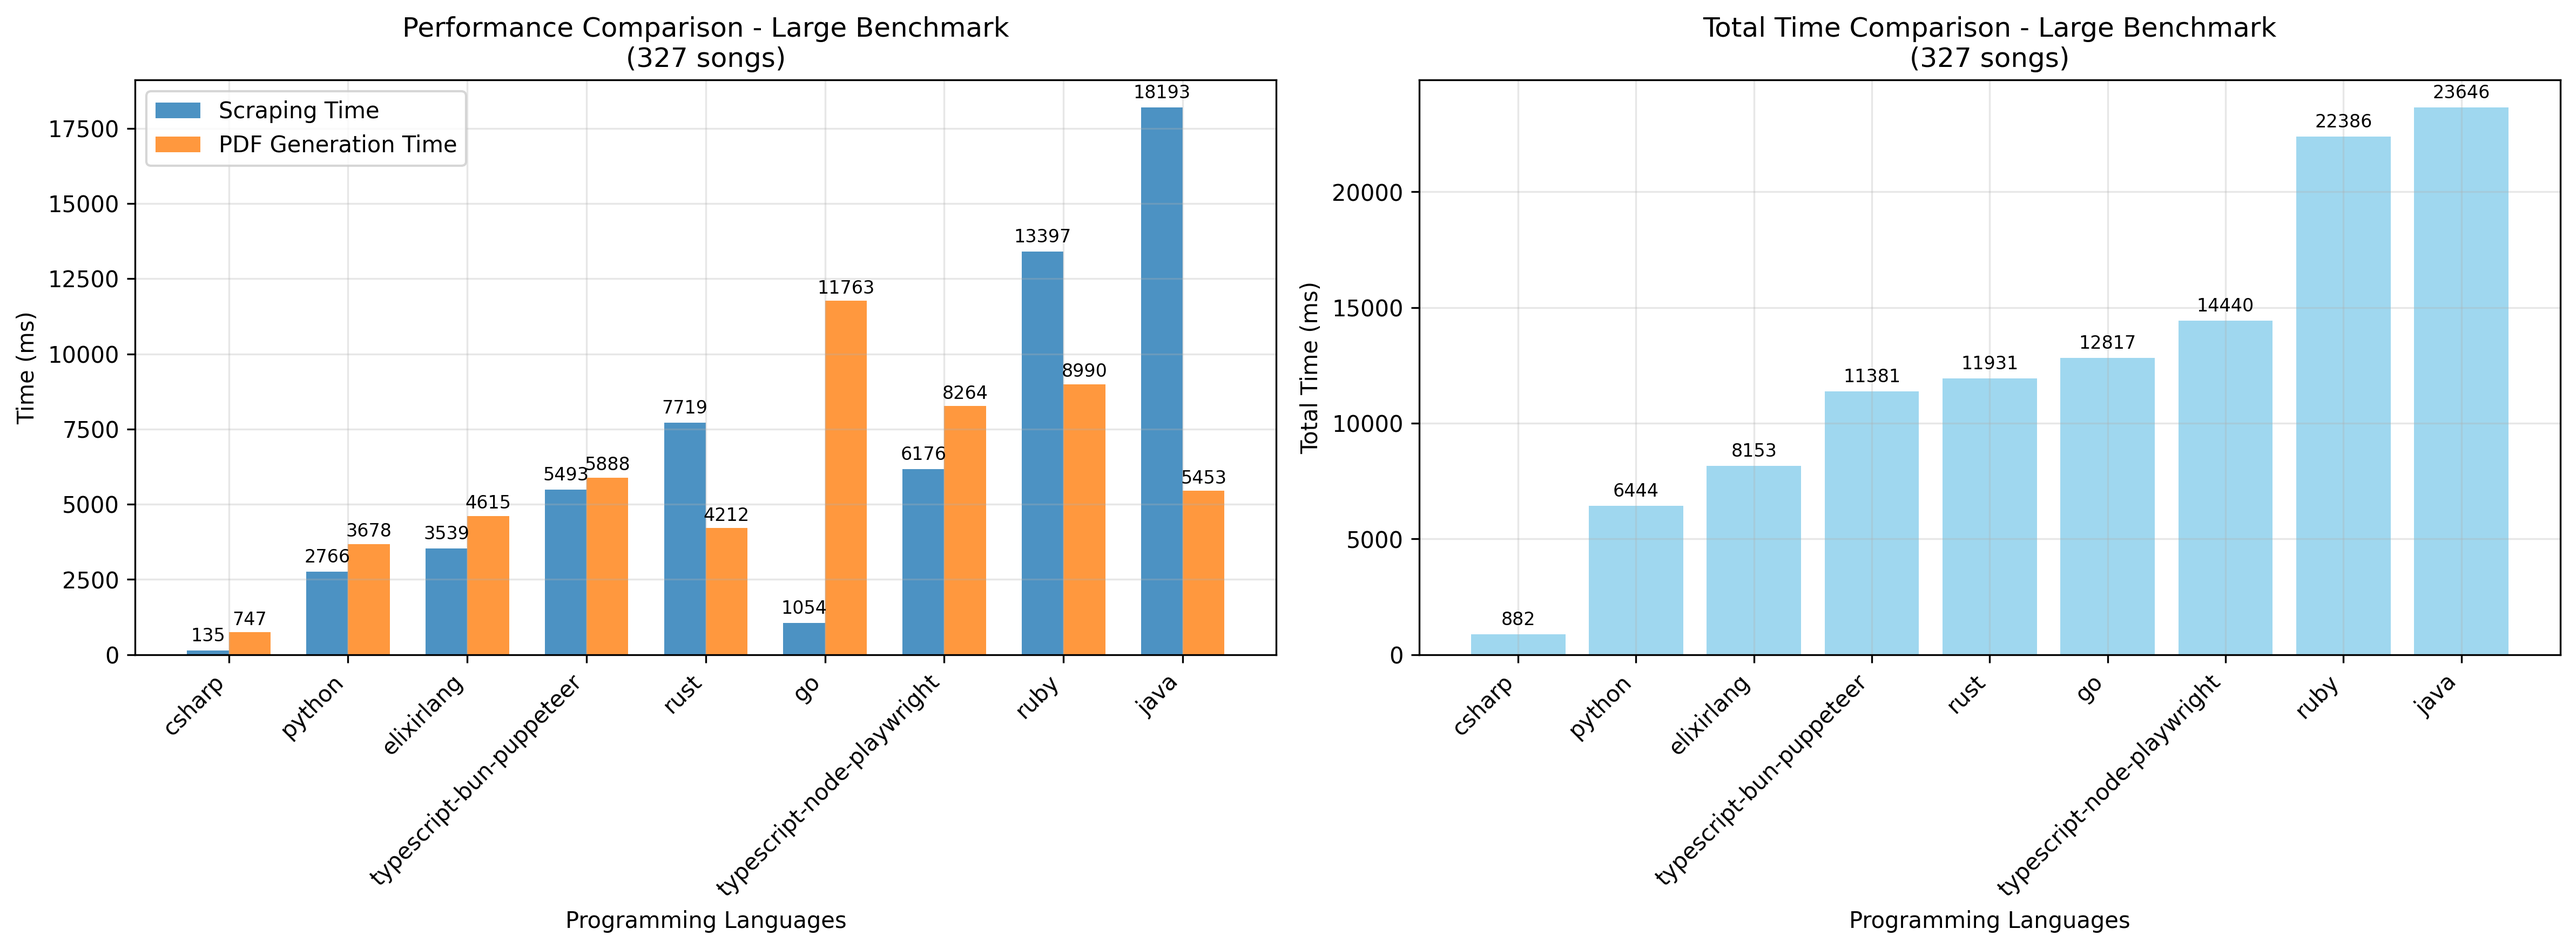
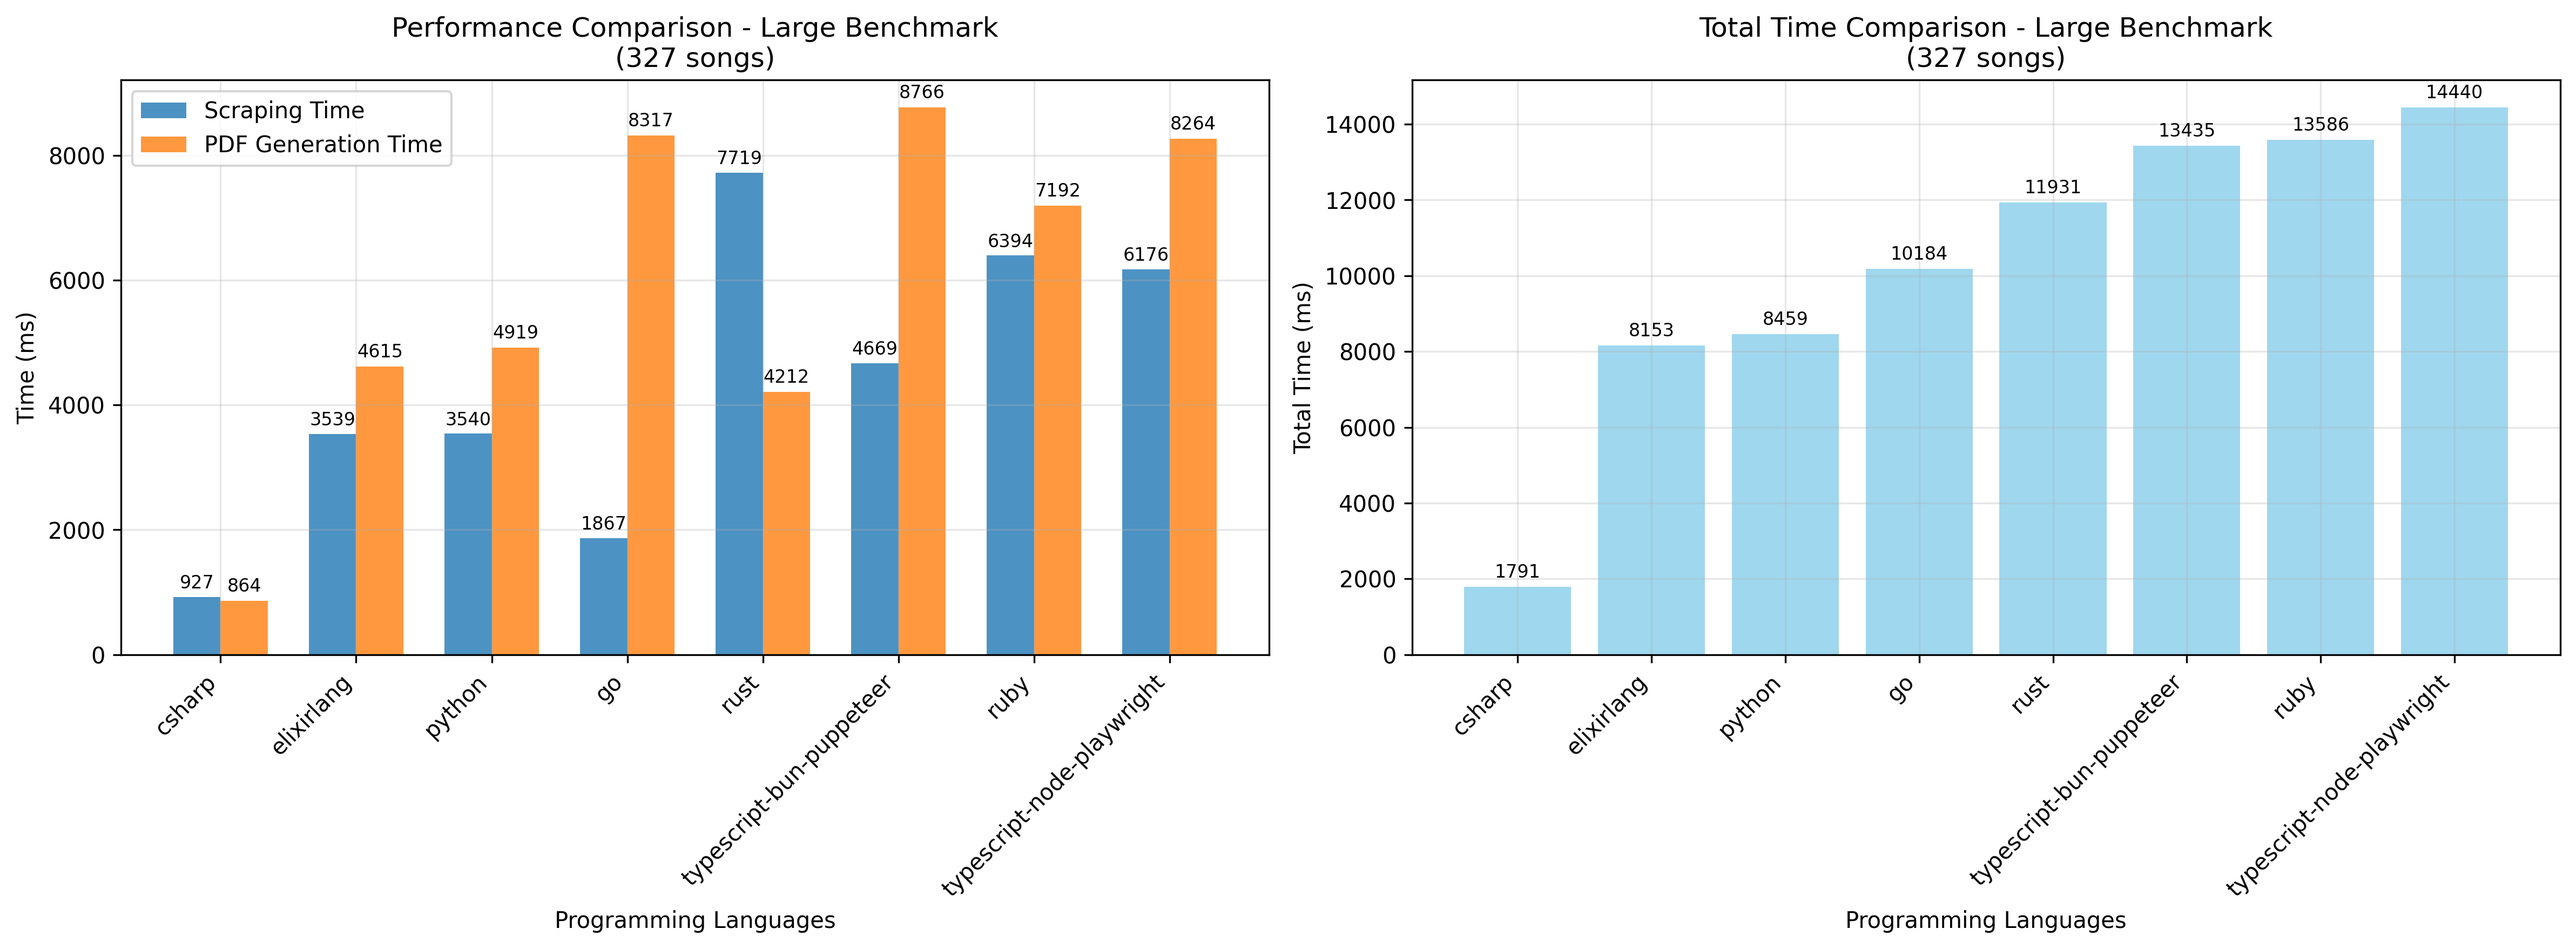
0311

diff --git a/languages/typescript-node-playwright/tst.ts b/languages/typescript-node-playwright/tst.ts
@@ -1,0 +1,16 @@
+import { scrapeAndGenerate } from "./src/services";
+import * as fs from "fs";
+
+function parseAsJson(obj: object) {
+  return JSON.stringify(obj, null, 2);
+}
+
+export default async function benchmark() {
+  const resultLarge = await scrapeAndGenerate("large", "https://www.cifraclub.com/musico/551928421/repertorio/favoritas/");
+
+  fs.writeFileSync("benchmarks.json", parseAsJson([
+    resultLarge
+  ]));
+}
+
+benchmark().then(() => console.log(""));

diff --git a/languages/java/src/main/java/org/cifraclub/java/Scraper.java b/languages/java/src/main/java/org/cifraclub/java/Scraper.java
@@ -36,7 +36,7 @@ public class Scraper {
 
     // HOW CAN IT BE SO COMPLICATED TO ADD A DEPENDENCYYYY AAAAAAAA
     private Document getJsoupObject(String url) throws IOException {
-        return Jsoup.connect(url).get();
+        return Jsoup.connect(url).timeout(10*1000).get();
     }
 
     private String[] getUrlsFromList(String url) throws IOException {
@@ -51,7 +51,7 @@ public class Scraper {
     private String scrapePage(String url) throws IOException {
         var doc = getJsoupObject(url);
         var page = doc.selectFirst("div[class=pages]");
-        assert page != null;
+        if (page == null) throw new IOException("Page not found");
         var html = page.outerHtml();
         html = new String(html.getBytes(StandardCharsets.UTF_8));
         html = removeImgTags(html);
@@ -68,7 +68,7 @@ public class Scraper {
     private String[] scrapeSongs(String[] urls) throws IOException {
         int numUrls = urls.length;
         ExecutorService executor = Executors.newFixedThreadPool(
-                Math.min(numUrls, 10)
+                Math.min(numUrls, 4)
         );
 
         List<CompletableFuture<String>> futures = new ArrayList<>();

diff --git a/languages/java/src/main/java/org/cifraclub/java/Main.java b/languages/java/src/main/java/org/cifraclub/java/Main.java
@@ -25,6 +25,7 @@ public class Main {
         for (String url : urls) {
             var scraper = new Scraper();
             var scrapingResult = scraper.scrape(url);
+            System.out.println("Scraped " + scrapingResult.amountOfSongs + " songs from " + url);
 
             var pdfStart = System.currentTimeMillis();
             Pdf.htmlToPdf(scrapingResult.html, "test.pdf");
